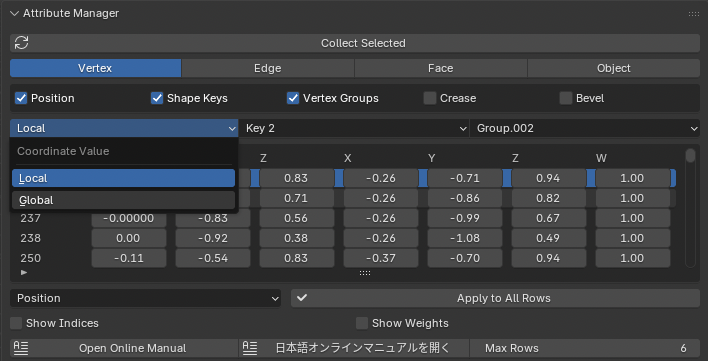
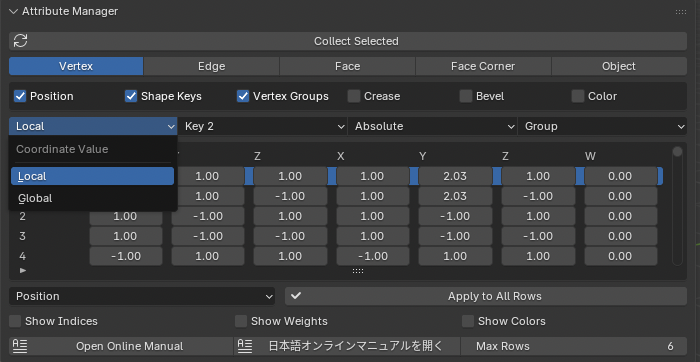
update for v1.1

diff --git a/AttributeManager/index_J.md b/AttributeManager/index_J.md
@@ -77,6 +77,7 @@ Attribute Manager は 3Dビューのサイドバー（Nパネル） に表示さ
 - Vertex（頂点）
 - Edge（エッジ）
 - Face（面）
+- Face Corner（面コーナー）
 - Object（オブジェクト）
 
 この切り替えに応じて、読み込む対象・表示する属性が変わります。
@@ -90,6 +91,7 @@ Attribute Manager は 3Dビューのサイドバー（Nパネル） に表示さ
 - Vertex モードなら「座標」「ウェイト」「Shape Key」など
 - Edge モードなら「smooth」「crease」など
 - Face モードなら「マテリアル」「Freestyle」など
+- Face Coner モードなら「UV」「カラー」など
 - Object モードなら「表示設定」「変形」「タイプ別属性」など
 
 ### <ins>(4) 編集テーブル</ins><br>
@@ -100,7 +102,13 @@ Attribute Manager は 3Dビューのサイドバー（Nパネル） に表示さ
 - テーブルはスクロール可能です
 - 最初の行は項目名（見出し）です
 - 現在の行は青くハイライトされます
+- 行を選択するとその行のエレメントはアクティブエレメントに設定されます。
 - セルを直接編集すると、その値が即座に Blender に反映されます。
+
+<div align="left">
+<img src="images/activeElement.gif"/>
+</div>
+<br>
 
 ### <ins>(5) Apply to All Rows<ins><br>
 このボタンは、特定の列だけ値をすべての行に反映させたいときに使います。
@@ -112,15 +120,33 @@ Attribute Manager は 3Dビューのサイドバー（Nパネル） に表示さ
 
 これで同じ列の値がすべての行に反映されます。
 
-### <ins>(6) Show Indices, Show Weights<ins><br>
+### <ins>(6) Show Indices, Show Weights, Show Colors<ins><br>
 
 - Show Indices<br>
 → 3Dビューに要素番号（Index）を番号付きで表示します
-→ Blender の Edit Mode Overlay の「Indices」に相当します
+→ Blender の Edit Mode Overlay の「Indices」に相当します。
 
 - Show Weights<br>
 → 3Dビューにウェイトをグラデーションで表示します
-→ Edit Mode の「Vertex Group Weights」Overlay と同じ機能
+→ Edit Mode の「Vertex Group Weights」Overlay に相当します。
+
+3Dビューを切り替えた時は、Show Indices, Show Weightsを再設定する必要があります。<br>
+
+<div align="left">
+<img src="images/EditModeOverlay.png"/>
+</div>
+<br>
+
+- Show Colors<br>
+→ 3Dビューにウェイトをグラデーションで表示します
+→ Object Mode の「Viewport Shading」にあるObject Color と同じ機能
+
+3Dビューを切り替えた時は、Show Colorsを再設定する必要があります。<br>
+
+<div align="left">
+<img src="images/ViewportShading.png"/>
+</div>
+<br>
 
 ### <ins>(7) Max Rows<ins><br>
 スプレッドシート表示における一度に表示する最大行数を調整します。初期値は6行です。
@@ -139,13 +165,22 @@ Attribute Manager は 3Dビューのサイドバー（Nパネル） に表示さ
 - Vertex Group ウェイト
 - クリース
 - ベベルウェイト
+- カラーアトリビュート（POINT）
 
 座標値は ローカル / グローバル空間 の両方で表示できます。編集時は Blender 側に自動で変換されて反映されます。<br>
 
-グローバル座標系の場合は、メッシュ頂点の座標値をグローバル座標系に変換して編集テーブルに表示し、編集した値はローカル座標系に変換してメッシュに書き戻しています。YT-Tools for Blenderの作業平面の機能と組み合わせて、作業平面上の頂点の座標値を揃えたい場合などで便利に使うことができます。シェイプキーとVertex Groupは、プルダウンメニューで選択されている対象データの値が対象になります。
+グローバル座標系の場合は、メッシュ頂点の座標値をグローバル座標系に変換して編集テーブルに表示し、編集した値はローカル座標系に変換してメッシュに書き戻しています。YT-Tools for Blenderの作業平面の機能と組み合わせて、作業平面上の頂点の座標値を揃えたい場合などで便利に使うことができます。シェイプキーとVertex Groupは、プルダウンメニューで選択されている対象データの値が対象になります。<br>
 
 <div align="left">
 <img src="images/vertexPosition.gif"/>
+</div>
+<br>
+
+Shape KeyモードをRelativeにすると、座標値はBaseキーからの相対値で表示されます。<br>
+
+
+<div align="left">
+<img src="images/shapekeyRelative.gif"/>
 </div>
 <br>
 
@@ -181,6 +216,26 @@ Attribute Manager は 3Dビューのサイドバー（Nパネル） に表示さ
 
 多くの面が同じマテリアルを共有する場合に一括編集が便利です。Freestyleの属性も変更可能です。
 
+## 面コーナー編集モード
+<div align="left">
+<img src="images/faceCornerMode.png"/>
+</div>
+面の各コーナーに属する属性編集ができます：
+
+- UV
+- カラーアトリビュート (CORNER)
+
+Blenderでは、UVやカラーアトリビュートは面の各コーナーごとに値を保持していて、必要に応じて頂点単位に編集を行ったり、切り離して独立した値を持たせることが可能です。<br>
+
+Index Orderは、頂点番号と面番号をどちらを基準にテーブルを表示するかを指定します。<b>Face - Vertex</b>を指定すると面とその面を構成する頂点を順番に表示します。<b>Vertex - Face</b>を指定すると頂点とその頂点にリンクされている面を順番に表示します。<br>
+
+<b>Shared Vertex</b>を有効にすると同一頂点において同じ面コーナーの値は同時に編集されます。同じ値を持つセルは表示されません。<b>Shared Vertex</b>をオフにすると面コーナー単位に独立して値を編集することができます。<br>
+
+<div align="left">
+<img src="images/faceCornerUV.gif"/>
+</div>
+<br>
+
 ## オブジェクト編集モード
 <div align="left">
 <img src="images/objectMode.png"/>
@@ -215,6 +270,13 @@ Object モードでは:<br>
 ### v1.0 新規リリース
 
 - Attribute Manager for Blenderの新規リリース
+
+### v1.1 新機能追加
+
+- Face Conerモードの追加
+- Color Attributeの追加
+- Show Colorsボタンの追加
+- Shape Keysで相対座標値の編集機能を追加
 
 ## License
 

diff --git a/AttributeManager/index.md b/AttributeManager/index.md
@@ -75,6 +75,7 @@ There are four editing modes:<br>
 - Vertex
 - Edge
 - Face
+- Face Corner
 - Object
 
 When switching modes, the currently selected elements are automatically reloaded into the table.
@@ -92,15 +93,41 @@ This is the spreadsheet-style table where loaded attributes can be edited.
 - In Vertex/Edge/Face modes, mesh element indices are shown.
 - In Object mode, object names are shown.
 - The currently active row is highlighted in blue.
+- When you select a row, the element in that row will be set as the active element.
+
+<div align="left">
+<img src="images/activeElement.gif"/>
+</div>
+<br>
 
 ### <ins>(5) Apply to All Rows<ins><br>
 The <b>Apply to All Rows</b> button applies the value from the selected row to all other rows for the field chosen in the adjacent dropdown.
 
-### <ins>(6) Show Indices, Show Weights<ins><br>
+### <ins>(6) Show Indices, Show Weights, Show Colors<ins><br>
 - <b>Show Indices</b> displays the index numbers of mesh elements in the 3D View.
 This performs the same function as the Indices toggle in the Blender Edit Mode overlay.
+
 - <b>Show Weights</b> displays vertex group weights as a gradient in the 3D View.
 This matches the <b>Vertex Group Weights</b> overlay setting in Edit Mode.
+
+When switching 3D views, you must reset the Show Indices and Show Weights settings.<br>
+
+<div align="left">
+<img src="images/EditModeOverlay.png"/>
+</div>
+<br>
+
+- Show Colors<br>
+→ Displays weights as a gradient in the 3D view.
+→ Same function as Object Color in "Viewport Shading" in Object Mode.
+
+When switching 3D views, you must reset the Show Colors settings.<br>
+
+<div align="left">
+<img src="images/ViewportShading.png"/>
+</div>
+<br>
+
 
 ### <ins>(7) Max Rows<ins><br>
 <b>Max Rows</b> sets the number of rows shown in the editing table.
@@ -119,13 +146,22 @@ In Vertex Edit Mode, you can edit:
 - Vertex group weights
 - Crease
 - Bevel Weight
+- Color Attribute (POINT)
 
 Coordinate values can be displayed and edited in either local or global coordinate space.<br>
 When in Edit Mode, global coordinates are converted from local, displayed in the table, and converted back when applied.
-This allows precise positioning in global space when needed.
+This allows precise positioning in global space when needed.<br>
 
 <div align="left">
 <img src="images/vertexPosition.gif"/>
+</div>
+<br>
+
+When Shape Key mode is set to Relative, coordinate values are displayed relative to the Base key.<br>
+
+
+<div align="left">
+<img src="images/shapekeyRelative.gif"/>
 </div>
 <br>
 
@@ -160,6 +196,26 @@ In Face Edit Mode, you can edit face attributes such as:
 
 This allows quick assignment or bulk editing of material indices and rendering attributes.
 
+## Face Corner Edit Mode
+<div align="left">
+<img src="images/faceCornerMode.png"/>
+</div>
+You can edit attributes associated with each corner of a face:
+
+- UV
+- Color Attributes (CORNER)
+
+In Blender, UV and color attributes are stored at each corner of a face, allowing you to edit them individually or separate them to have independent values. <br>
+
+Index Order specifies whether the table is displayed based on vertex or face numbers. Specifying <b>Face - Vertex</b> displays faces and their vertices in order. Specifying <b>Vertex - Face</b> displays vertices and their linked faces in order. <br>
+
+When <b>Shared Vertex</b> is enabled, values for the same face corner at the same vertex are edited simultaneously. Cells with the same value are not displayed. When <b>Shared Vertex</b> is turned off, values for each face corner can be edited independently. <br>
+
+<div align="left">
+<img src="images/faceCornerUV.gif"/>
+</div>
+<br>
+
 ## Object Edit Mode
 <div align="left">
 <img src="images/objectMode.png"/>
@@ -190,9 +246,16 @@ When applying the same Name to multiple objects, Blender automatically appends n
 
 ## Change Log
 
-### v1.0
+### v1.0 Initial Release
 
 - Initial release of Attribute Manager for Blender
+
+### v1.1 New Features
+
+- Added Face Contour Mode
+- Added Color Attribute
+- Added Show Colors button
+- Added the ability to edit relative coordinates in Shape Keys
 
 ## License
 

diff --git a/AttributeManager/release_1_1.md b/AttributeManager/release_1_1.md
@@ -1,0 +1,36 @@
+---
+# Feel free to add content and custom Front Matter to this file.
+# To modify the layout, see https://jekyllrb.com/docs/themes/#overriding-theme-defaults
+
+layout: default
+permalink: /AttributeManager/release_1_1.html
+---
+# Attribute Manager for Blender v1.1 Release Note
+
+## ✨ New Features Overview
+
+### 🔹 Face Corner Mode
+<b>Face Corner Mode</b> is a mode for editing data that belongs to face corners, such as UV and Color Attribute (CORNER). The edit table displays the values of the selected face corner in the order of the face and the vertices that make up the face, or the order of the vertex and the face linked to that vertex. When <b>Shared Vertex</b> is enabled, you can simultaneously edit the values of face corners that have the same value at the same vertex.
+<div align="left">
+<img src="images/faceCornerUV.gif"/>
+</div>
+
+
+### <ins>Relative Mode for Shape Keys</ins><br>
+When Shape Key mode is set to Relative, coordinate values are displayed relative to the Base key. This mode is useful when you want to add a relative offset value.<br>
+<div align="left">
+<img src="images/shapekeyRelative.gif"/>
+</div>
+
+### <ins>Color Attribute</ins><br>
+Now Vertex mode and Face Coner support editting Color Attribute (POINT, CORNER). <b>Show Colors</b> enables drawing vertex colors on 3D View.<br>
+
+
+### <ins>Current Row sets Active Element</ins><br>
+When you select a row, the element in that row will be set as the active element.<br>
+
+<div align="left">
+<img src="images/activeElement.gif"/>
+</div>
+<br>
+

diff --git a/index.md b/index.md
@@ -32,6 +32,8 @@ Hello I'm Taz, a software engineer specializing in modeling tools for 3D compute
 - <a href="/AttributeManager/index_J.html">日本語ドキュメント</a>
 - <a href="https://tazaki.gumroad.com/l/wirsjp/ctrx7jt">Gumroad online store</a>
 - <a href="https://forms.gle/cQuSwEzg53GJHpm47">Feedback Form</a>
+- Release Note :<br>
+    <a href="/AttributeManager/release_1_1.html">v1.1</a>
 
 <b>External Clipboard : </b><br>
 - <a href="https://tazaki.gumroad.com/l/xzcqrp">Modo Clipboard</a>
